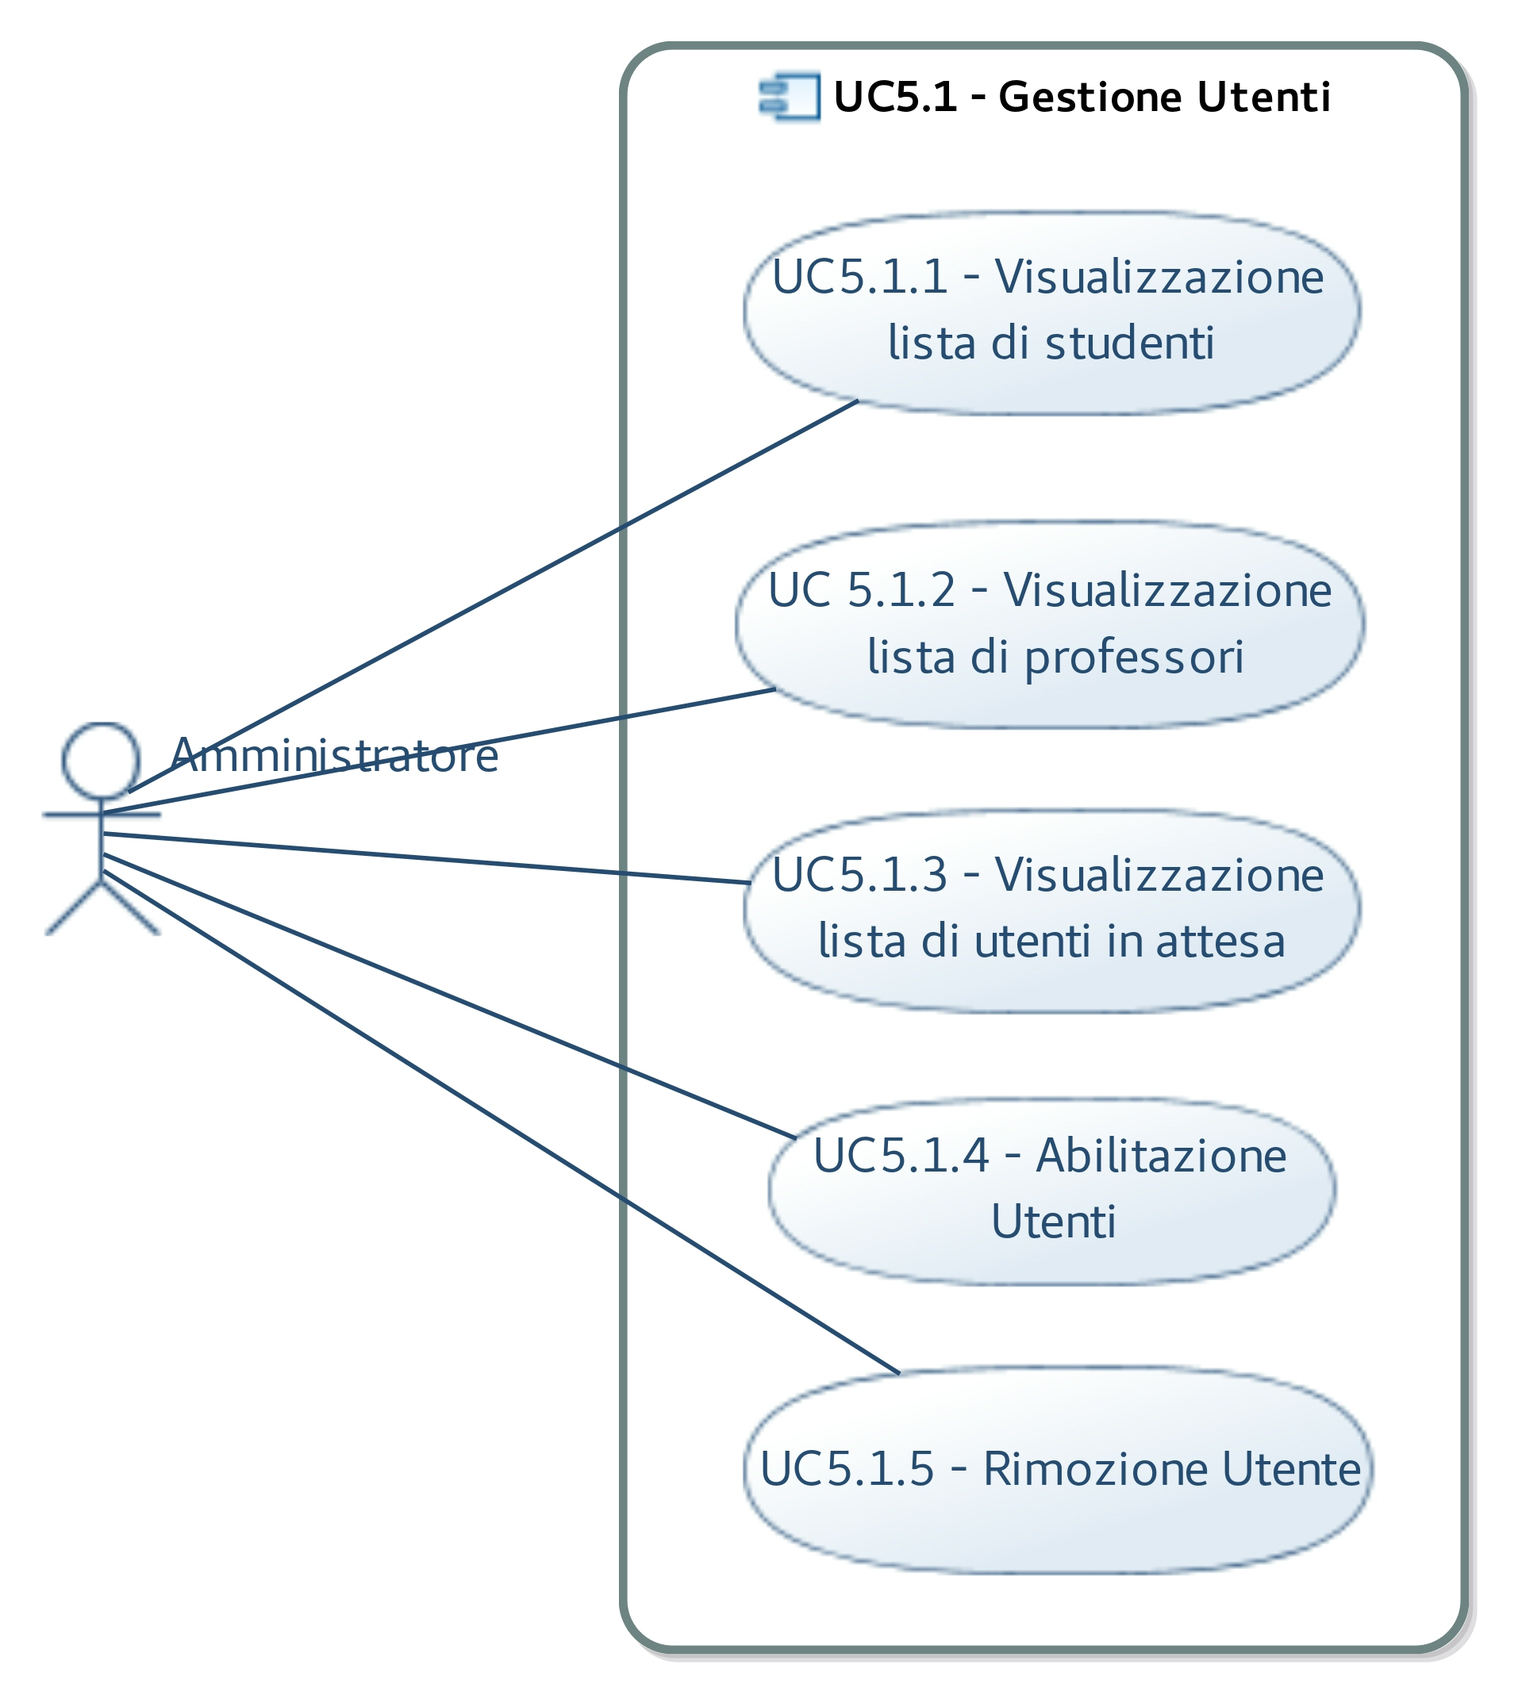
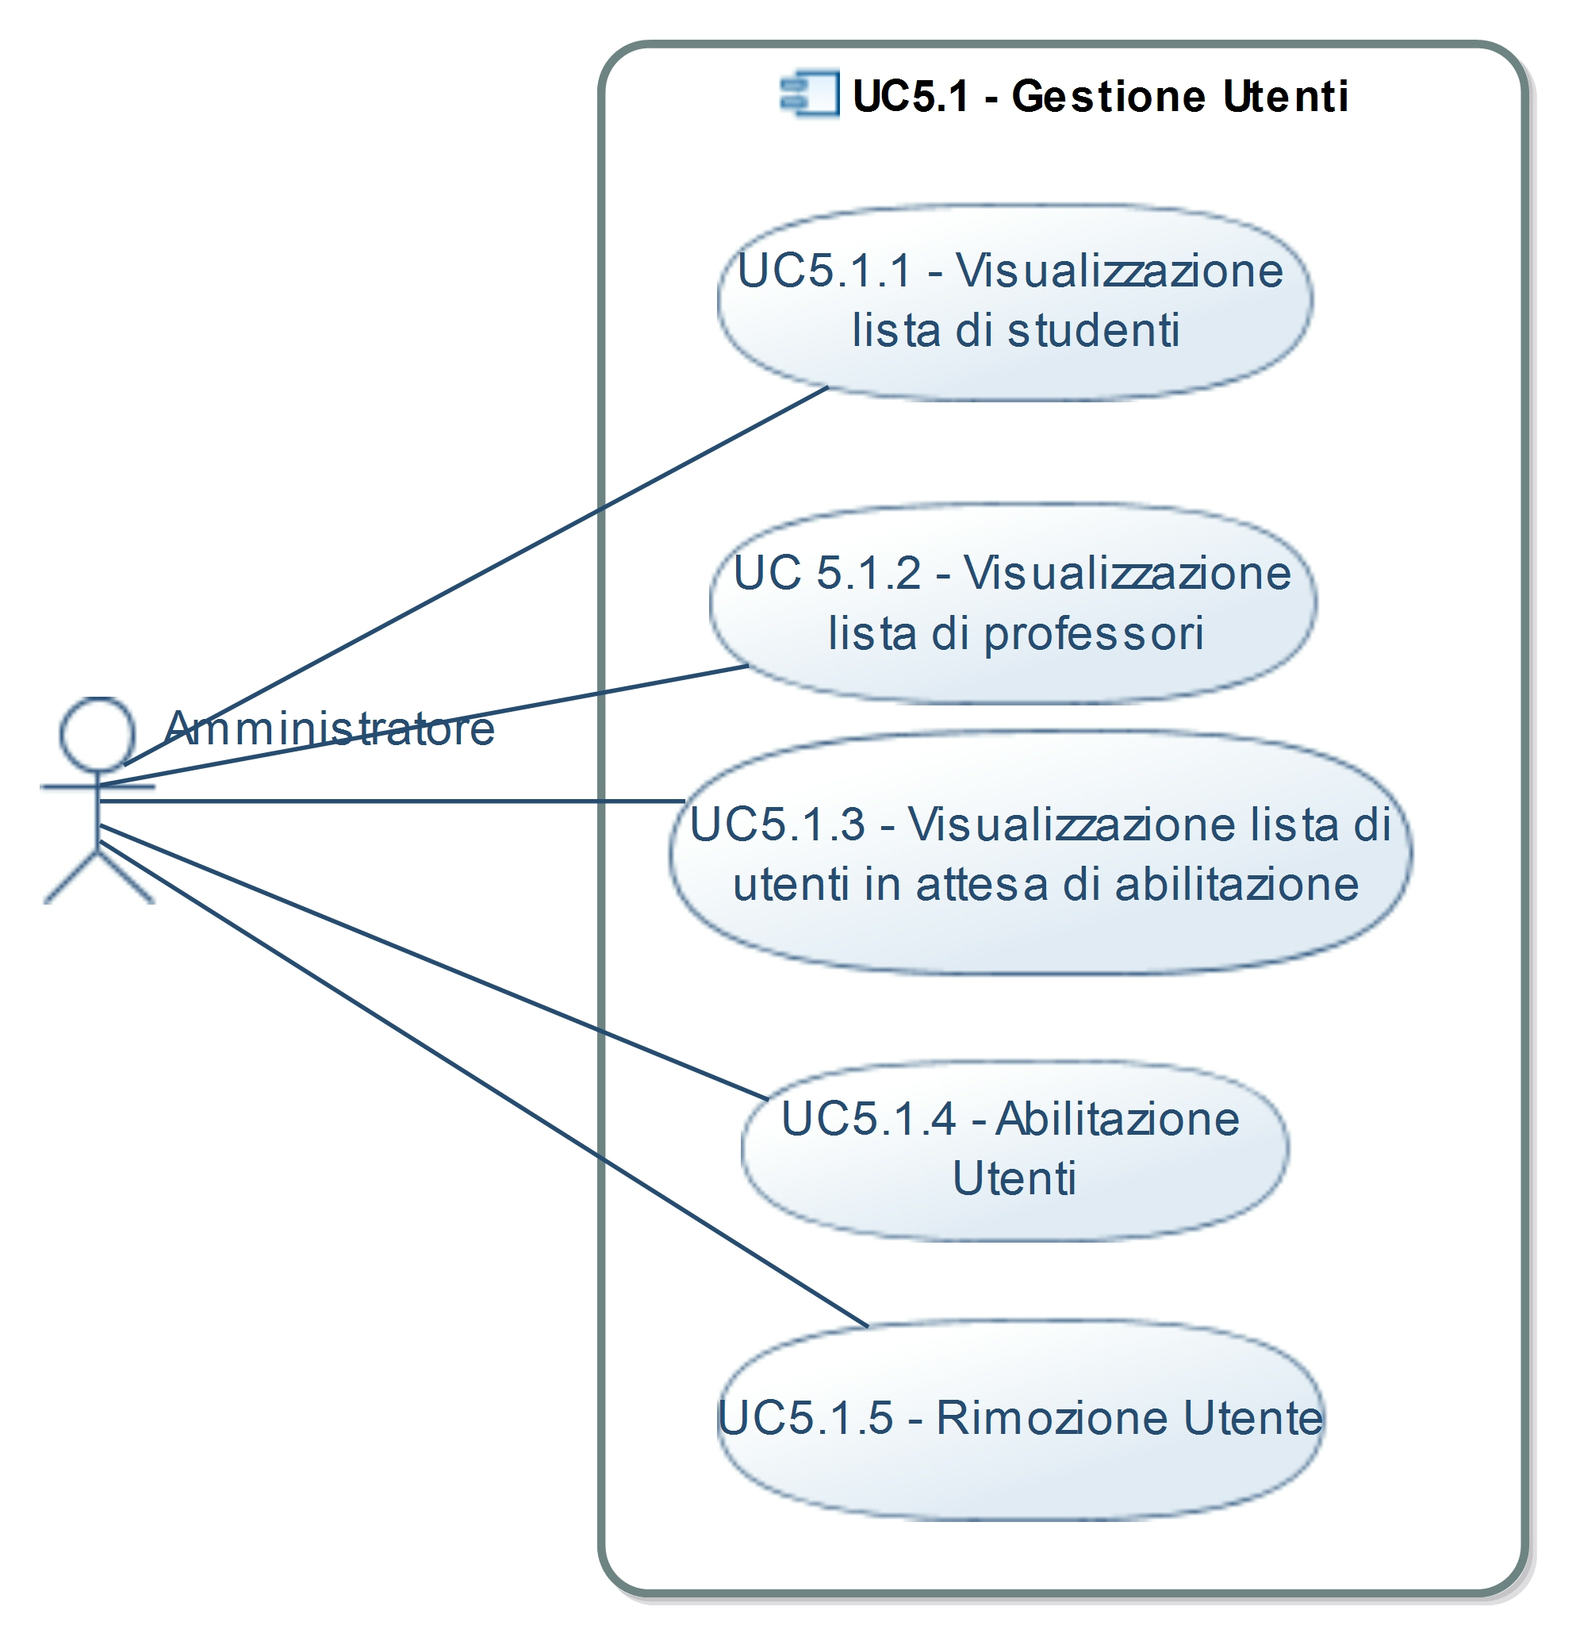
Corrette le sottoliste secondo le norme

diff --git a/Esterni - ENG/AnalisiDeiRequisiti/CasiDUso.tex b/Esterni - ENG/AnalisiDeiRequisiti/CasiDUso.tex
@@ -162,8 +162,8 @@
 	\begin{enumerate}
 		\item L'utente inserisce il suo nome [UC3.1];
 		\item L'utente inserisce il suo cognome [UC3.2];
-		\item L'utente seleziona la sua categoria [UC3.3]
-		\item L'utente seleziona il corso desiderato [UC3.4]
+		\item L'utente seleziona la sua categoria [UC3.3];
+		\item L'utente seleziona il corso desiderato [UC3.4].
 	\end{enumerate}
 	\item \textbf{Precondizione:} L'utente è entrato nel sistema e ha scelto di registrarsi;\\
 	\item \textbf{Postcondizione:} La registrazione è andata a buon fine e la chiave dell'utente è stata salvata nel sistema.\\
@@ -184,10 +184,10 @@
 	\item \textbf{Scenario principale:} L'utente fornisce tramite un dispositivo di input il suo nome;
 	\item \textbf{Estensioni:}
 		\begin{enumerate}
-			\item Se l'utente non ha un chiave viene avvisato tramite un messaggio d'errore. [UC3.7]
-			\item Se l'utente non ha una chiave dal formato non corretto viene avvisato tramite messaggio d'errore; [UC3.8]
-			\item Se la chiave fornita dall'utente è già presente nel sistema l'utente viene avvisato tramite un messaggio d'errore; [UC3.6]
-			\item Se l'utente non compila il campo viene avvisato con un messaggio d'errore; [UC3.5]
+			\item Se l'utente non ha un chiave viene avvisato tramite un messaggio d'errore [UC3.7];
+			\item Se l'utente non ha una chiave dal formato non corretto viene avvisato tramite messaggio d'errore [UC3.8];
+			\item Se la chiave fornita dall'utente è già presente nel sistema l'utente viene avvisato tramite un messaggio d'errore [UC3.6];
+			\item Se l'utente non compila il campo viene avvisato con un messaggio d'errore [UC3.5].
 		\end{enumerate}
 	\item \textbf{Precondizione:} L'utente vuole inserire il proprio nome per poter proseguire con la procedura di registrazione;
 	\item \textbf{Postcondizione:} L'utente ha inserito il proprio nome nel campo fornito dal sistema e la validità della sua chiave è stata controllata;
@@ -199,7 +199,7 @@
 	\item \textbf{Scenario principale:} L'utente fornisce tramite un dispositivo di input il suo cognome;
 	\item \textbf{Estensioni:}
 		\begin{enumerate}
-				\item Se l'utente non compila il campo viene avvisato dal sistema; [UC3.5]
+				\item Se l'utente non compila il campo viene avvisato dal sistema [UC3.5].
 		\end{enumerate}		
 	\item \textbf{Precondizione:} L'utente vuole inserire il proprio cognome;
 	\item \textbf{Postcondizione:} L'utente ha inserito il suo cognome nel campo fornito dal sistema;
@@ -310,7 +310,7 @@
 	\item \textbf{Precondizione:} L'amministratore è nell'area di gestione utenti e richiede una lista di tutti i professori; 
 	\item \textbf{Postcondizione:} L'amministratore ottiene la lista.
 \end{itemize}
-\subsection{UC5.1.3 - Visualizzazione lista di utenti in attesa abilitati}
+\subsection{UC5.1.3 - Visualizzazione lista di utenti in attesa di abilitazione}
 \begin{itemize}
 	\item \textbf{Attori primari:} Amministratore;
 	\item \textbf{Scopo e descrizione:} L'amministratore visualizza una lista di tutti gli studenti ancora non abilitati;
@@ -324,8 +324,8 @@
 	\item \textbf{Scopo e descrizione:} L'amministratore abilita la registrazione di un utente;
 	\item \textbf{Scenario principale:}
 	\begin{enumerate}
-		\item L'amministratore seleziona un utente non ancora abilitato;
-		\item L'amministratore lo abilita
+		\item L'amministratore visualizza la lista degli utenti in attesa di abilitazione [UC5.1.3];
+		\item L'amministratore lo abilita [UC5.1.4].
 	\end{enumerate}
 	\item \textbf{Precondizione:} L'amministratore ha richiesto una lista di utenti non abilitati; 
 	\item \textbf{Postcondizione:} L'amministratore selezionato viene abilitato e il suo stato viene aggiornato nel sistema.
@@ -336,8 +336,8 @@
 	\item \textbf{Scopo e descrizione:} L'amministratore rimuove dal sistema un utente non ancora abilitato o già abilitato;
 	\item \textbf{Scenario principale:}
 	\begin{enumerate}
-		\item L'amministratore seleziona un utente abilitato o in attesa di abilitazione;
-		\item L'amministratore rimuove l'utente selezionato
+		\item L'amministratore visualizza gli utenti abilitati o in attesa di abilitazione e ne seleziona uno [UC5.1.1 o UC5.1.2 o UC5.3];
+		\item L'amministratore rimuove l'utente selezionato [UC5.1.5].
 	\end{enumerate}
 	\item \textbf{Precondizione:} L'amministratore ha richiesto una lista di studenti o professori; 
 	\item \textbf{Postcondizione:} L'utente selezionato viene rimosso dal sistema.
@@ -365,9 +365,9 @@
 	\item \textbf{Scenario principale:} L'amministratore inserisce il numero dell'anno da aggiungere in un campo fornito dal sistema;
 	\item \textbf{Estensioni:}
 	\begin{enumerate}
-		\item Se l'amministratore inserisce un'anno non numerico viene mostrato un messaggio d'errore relativo alla malformazione dell'anno;[UC5.1.4]
-		\item Se l'amministratore inserisce un'anno già presente nel sistema viene mostrato un messaggio d'errore relativo alla non univocità dell'anno.[UC5.1.5]
-		\item Se l'amministratore lascia il campo vuoto l'utente viene avvisato con un relativo messaggio d'errore.[UC5.1.6]
+		\item Se l'amministratore inserisce un'anno non numerico viene mostrato un messaggio d'errore relativo alla malformazione dell'anno [UC5.1.4];
+		\item Se l'amministratore inserisce un'anno già presente nel sistema viene mostrato un messaggio d'errore relativo alla non univocità dell'anno [UC5.1.5];
+		\item Se l'amministratore lascia il campo vuoto l'utente viene avvisato con un relativo messaggio d'errore [UC5.1.6].
 	\end{enumerate}
 	\item \textbf{Precondizione:} L'amministratore ha scelto di aggiungere un anno accademico; 
 	\item \textbf{Postcondizione:} L'anno accademico creato viene inserito nel sistema.
@@ -386,9 +386,9 @@
 	\item \textbf{Scopo e descrizione:} L'amministratore aggiunge un corso di laurea già presente nel sistema all'interno dell'anno accademico;
 	\item \textbf{Scenario principale:}
 	\begin{enumerate}
-		\item L'amministratore seleziona l'anno accademico;
-		\item L'amministratore ottiene una lista di corsi di laurea; [UC 5.3.1]
-		\item L'amministratore seleziona il corso di laurea e lo inserisce all'interno dell'anno accademico.
+		\item L'amministratore visualizza la lista degli anni accademici e identifica quello di suo interesse [UC5.2.2];
+		\item L'amministratore ottiene una lista dei corsi di laurea [UC 5.3.3];
+		\item L'amministratore seleziona il corso di laurea e lo inserisce all'interno dell'anno accademico desiderato [5.2.3].
 	\end{enumerate}
 	\item \textbf{Precondizione:} L'amministratore vuole aggiungere un corso di laurea all'anno accademico è ha ottenuto una lista degli anni accademici presenti nel sistema; 
 	\item \textbf{Postcondizione:} Il corso di laurea è stato correlato con l'anno accademico e il loro stato è stato aggiornato nel sistema.
@@ -439,13 +439,12 @@
 	\item \textbf{Scopo e descrizione:} L'amministratore crea un nuovo corso di laurea associato ad un anno accademico;
 	\item \textbf{Scenario principale:}
 		\begin{enumerate}
-			\item L'amministratore ottiene una lista degli anni accademici [UC5.2.2];
-			\item L'amministratore seleziona un anno accademico;
-			\item L'amministratore inserisce di dati relativi al corso di laurea;
+			\item L'amministratore ottiene una lista degli anni accademici e seleziona quello di suo interesse [UC5.2.2];
+			\item L'amministratore inserisce di dati relativi al corso di laurea [5.3.1].
 		\end{enumerate}
 	\item \textbf{Estensioni:}
 		\begin{enumerate}
-			\item Se l'amministratore non inserisce tutti i campi viene avvisato dal sistema [UC5.3.2];
+			\item Se l'amministratore non inserisce tutti i campi viene avvisato dal sistema [UC5.3.2].
 		\end{enumerate}
 	\item \textbf{Precondizione:} L'amministratore vuole inserire un nuovo corso di laurea associato ad un anno accademico; 
 	\item \textbf{Postcondizione:} Il corso di laurea è stato creato ed inserito nel sistema.
@@ -471,8 +470,8 @@
 	\item \textbf{Scopo e descrizione:} Vengono visualizzati i corsi di laurea relativi ad un determinato anno accademico;
 	\item \textbf{Scenario principale:}
 	\begin{enumerate}
-		\item L'amministratore seleziona un anno accademico
-		\item Il sistema mostra la lista di corsi di laurea associati all'anno accademico
+		\item L'amministratore ottiene una lista degli anni accademici e seleziona quello di suo interesse [UC5.2.2];
+		\item Il sistema mostra la lista di corsi di laurea associati all'anno accademico [UC5.3.4].
 	\end{enumerate};
 	\item \textbf{Precondizione:} L'amministratore ha visualizzato una lista di anni accademici [UC5.2.2] e vuole visualizzare i corsi di laurea all'interno di uno di essi; 
 	\item \textbf{Postcondizione:} L'amministratore ottiene la lista desiderata.
@@ -484,9 +483,9 @@
 	\item \textbf{Scenario principale:} L'amministratore inserisce i dati necessari per la creazione dell'esame;
 	\item \textbf{Estensioni:}
 	\begin{enumerate}
-		\item Se l'amministratore non compila tutti i campi viene visualizzato un messaggio d'errore [UC5.3.4]
+		\item Se l'amministratore non compila tutti i campi viene visualizzato un messaggio d'errore [UC5.3.4].
 	\end{enumerate}
-	\item \textbf{Precondizione:} L'amministratore ha ottenuto una lista di corsi di laurea per anno accademico [UC5.3.2] e ne ha selezionato uno, volendo creare un esame al su interno; 
+	\item \textbf{Precondizione:} L'amministratore ha ottenuto una lista di corsi di laurea per anno accademico [UC5.3.3] e ne ha selezionato uno, volendo creare un esame al su interno; 
 	\item \textbf{Postcondizione:} L'esame viene inserito nel sistema e associato al corso di laurea selezionato.
 \end{itemize}
 \subsection{UC5.3.6 - Visualizzazione errore campi non compilati nella creazione dell'esame}
@@ -503,10 +502,10 @@
 	\item \textbf{Scopo e descrizione:} Vengono visualizzati gli esami relativi ad un determinato corso di laurea;
 	\item \textbf{Scenario principale:}
 	\begin{enumerate}
-		\item L'amministratore seleziona un corso di laurea
+		\item L'amministratore ottiene una lista dei corsi di laurea e seleziona quello di suo interesse [UC5.3.3 o UC5.3.4];
 		\item Il sistema mostra la lista di esami associati al corso selezionato
 	\end{enumerate};
-	\item \textbf{Precondizione:} L'amministratore ha visualizzato una lista di corsi di laurea [UC5.3.1 o UC5.3.2] e vuole visualizzare gli esami all'interno di uno di essi; 
+	\item \textbf{Precondizione:} L'amministratore ha visualizzato una lista di corsi di laurea [UC5.3.3 o UC5.3.4] e vuole visualizzare gli esami all'interno di uno di essi; 
 	\item \textbf{Postcondizione:} L'amministratore ottiene la lista desiderata.
 \end{itemize}
 \subsection{UC5.3.8 - Visualizzazione lista esami}
@@ -523,15 +522,15 @@
 	\item \textbf{Scopo e descrizione:} L'amministratore aggiunge un esame ad un determinato corso di laurea;
 	\item \textbf{Scenario principale:}
 		\begin{enumerate}
-			\item L'amministratore seleziona il corso di laurea;
-			\item L'amministratore ottiene una lista di esami [UC5.3.8];
-			\item L'amministratore seleziona l'esame e lo inserisce all'interno del corso selezionato;
+			\item L'amministratore ottiene una lista dei corsi di laurea e seleziona quello di suo interesse [UC5.3.3 o UC5.3.4];
+			\item L'amministratore ottiene una lista degli esami [UC5.3.7 o UC5.3.8];
+			\item L'amministratore seleziona l'esame e lo inserisce all'interno del corso selezionato [UC5.3.9].
 		\end{enumerate}
 	\item \textbf{Precondizione:} L'amministratore vuole aggiungere un esame ad un corso di laurea e ha ottenuto una lista di corsi di laurea presenti nel sistema [UC5.3.3 o UC5.3.4]; 
 	\item \textbf{Postcondizione:} L'esame è stato aggiunto al corso di laurea e il loro stato aggiornato nel sistema.
 \end{itemize}
 \begin{comment}
-\subsection{UC5.3.10 - Rimozione esame da un corso}
+subsection{UC5.3.10 - Rimozione esame da un corso}
 \begin{itemize}
 	\item \textbf{Attori primari:} Amministratore;
 	\item \textbf{Scopo e descrizione:} L'amministratore rimuove un esame da un corso di laurea;
@@ -549,15 +548,15 @@
 	\item \textbf{Scopo e descrizione:} L'amministratore associa ad un esame un professore;
 	\item \textbf{Scenario principale:};
 	\begin{enumerate}
-		\item L'amministratore ottiene una lista di professori [UC5.1.2];
-		\item L'amministratore seleziona un professore;
-		\item L'amministratore associa all'esame il professore selezionato;
+		\item L'amministratore ottiene una lista degli esami [UC5.3.7 o UC5.3.8];
+		\item L'amministratore ottiene una lista dei professori e seleziona quello di suo interesse [UC5.1.2];
+		\item L'amministratore associa all'esame il professore selezionato [UC5.3.10].
 	\end{enumerate}
-	\item \textbf{Precondizione:} L'amministratore ha ottenuto una lista di esami [UC5.3.7 o UC5.3.8] ne ha selezionato uno e vuole associarci un professore; 
+	\item \textbf{Precondizione:} L'amministratore ha ottenuto una lista di esami [UC5.3.7 o UC5.3.8], ne ha selezionato uno e vuole associarci un professore; 
 	\item \textbf{Postcondizione:} Il professore selezionato viene associato all'esame e il loro stato aggiornato nel sistema.
 \end{itemize}
 \begin{comment}
-\subsection{UC5.3.11 - Rimozione corso di laurea da anno accademico}
+subsection{UC5.3.11 - Rimozione corso di laurea da anno accademico}
 \begin{itemize}
 	\item \textbf{Attori primari:} Amministratore;
 	\item \textbf{Scopo e descrizione:} L'amministratore rimuove l'associazione tra un corso di laurea e l'anno accademico a lui associato;
@@ -577,8 +576,8 @@
 	\item \textbf{Scopo e descrizione:} L'amministratore visualizza i dati relativi ad uno specifico esame, come crediti e professore associato;
 	\item \textbf{Scenario principale:}
 		\begin{enumerate}
-			\item L'amministratore seleziona un esame dalla lista;
-			\item Il sistema mostra una schermata informativa contenente i dati relativi al numero di crediti dell'esame e il professore associato ad esso;
+			\item L'amministratore ottiene una lista degli esami e seleziona quello di suo interesse [UC5.3.7 o UC5.3.8];
+			\item Il sistema mostra una schermata informativa contenente i dati relativi al numero di crediti dell'esame e il professore associato ad esso [UC5.3.11];
 		\end{enumerate}
 	\item \textbf{Precondizione:} L'amministratore vuole visualizzare i dettagli di un esame e ha richiesto una lista di esami [UC5.3.7 o UC5.3.8]; 
 	\item \textbf{Postcondizione:} L'amministratore ha ottenuto le informazioni ricercate.
@@ -616,12 +615,10 @@
 	\item \textbf{Flusso principale degli eventi:}\\
 	\begin{enumerate}
 		\item Il professore visualizza la lista degli esami di sua competenza [UC6.1];
-		\item Il professore, una volta individuato l'esame al quale è interessato, ne richiede la lista degli studenti registrati;
-		\item Il professore consulta la lista degli studenti dell'esame richiesto;
+		\item Il professore, una volta individuato l'esame al quale è interessato, ne richiede la lista degli studenti registrati [UC6.2].
 	\end{enumerate}
 	\item \textbf{Precondizione:} L'utente è già riconosciuto dal sistema come professore e richiede la visualizzazione della lista degli studenti iscritti a un determinato esame di sua competenza;\\
 	\item \textbf{Postcondizione:} Il professore ottiene la lista degli studenti iscritti all'esame richiesto per poterla consultare.\\
-	%TODO discutere: nessuna estensione, ha la possibilità di richiederlo solo ai suoi corsi, e se manomette il JS comunque non accede a informazioni segrete
 \end{itemize}
 
 \subsection{UC6.3 - Registrazione valutazione di un esame}
@@ -632,8 +629,8 @@
 	\begin{enumerate}
 		\item Il professore visualizza la lista degli esami di sua competenza [UC6.1];
 		\item Il professore, una volta individuato l'esame al quale è interessato, ne richiede la lista degli studenti registrati [UC6.2];
-		\item Il professore consulta la lista degli studenti ed individua la persona alla quale deve inserire la valutazione;
-		\item Il professore inserisce la valutazione allo studente;
+		\item Il professore consulta la lista degli studenti ed individua la persona alla quale deve inserire la valutazione [UC6.2];
+		\item Il professore inserisce la valutazione allo studente [UC6.3].
 	\end{enumerate}
 	\item \textbf{Precondizione:} Il professore possiede una valutazione da assegnare a uno studente riguardante un determinato esame e desidera registrarlo;\\
 	\item \textbf{Postcondizione:} Il voto è stato inserito nella blockchain universitaria.\\
@@ -768,8 +765,8 @@
 	\item \textbf{Attori primari:} Università;\\
 	\item \textbf{Scopo e Descrizione} Il sistema offre l'interfaccia per inserire la chiave pubblica del nuovo amministratore;
 	\item \textbf{Scenario principale:} L'utente che rappresenta l'università fornisce tramite un dispositivo di input il suo nome;	\begin{enumerate}
-		\item Se la chiave pubblica è mal formata l'utente viene avvisato con un relativo messaggio d'errore.[UC8.1.2]
-		\item Se la chiave pubblica è già registrata nel sistema in un altro ruolo l'utente viene avvisato un relativo messaggio d'errore.[UC8.1.3]
+		\item Se la chiave pubblica è mal formata l'utente viene avvisato con un relativo messaggio d'errore [UC8.1.2];
+		\item Se la chiave pubblica è già registrata nel sistema in un altro ruolo l'utente viene avvisato un relativo messaggio d'errore [UC8.1.3].
 	\end{enumerate}
 	\item \textbf{Precondizione:} Il sistema offre un campo per la compilazione della chiave pubblica del nuovo amministratore e rimane in attesa dell'input;
 	\item \textbf{Postcondizione:} L'utente che rappresenta l'università ha inserito la chiave pubblica del nuovo amministratore nel campo fornito dal sistema;
@@ -807,8 +804,8 @@
 	\item \textbf{Flusso principale degli eventi:}\\
 	\begin{enumerate}
 		\item L'utente che rappresenta l'università  visualizza la lista degli amministratori [UC8.2];
-		\item L'utente che rappresenta l'università, una volta ottenuta la lista degli amministratori, individua quale desidera rimuovere\\
-		\item L'utente che rappresenta l'università richiede al sistema l'eliminazione dell'amministratore;
+		\item L'utente che rappresenta l'università, una volta ottenuta la lista degli amministratori, individua quale desidera rimuovere [UC8.2];\\
+		\item L'utente che rappresenta l'università richiede al sistema l'eliminazione dell'amministratore [UC8.3].
 	\end{enumerate}
 	\item \textbf{Precondizione:} L'utente che rappresenta l'università desidera eliminare un amministratore dal sistema;\\
 	\item \textbf{Postcondizione:} L'amministratore indicato viene rimosso dal ruolo nell'università e non può più autenticarsi come tale.\\
